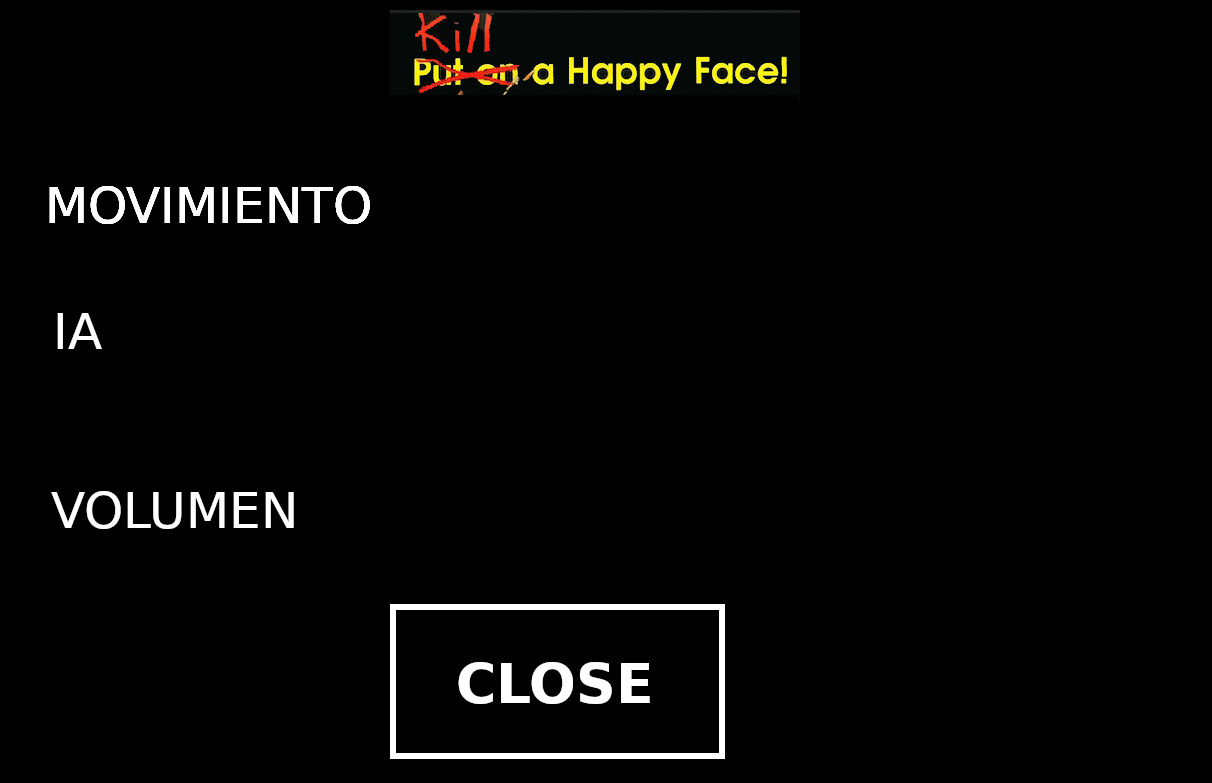
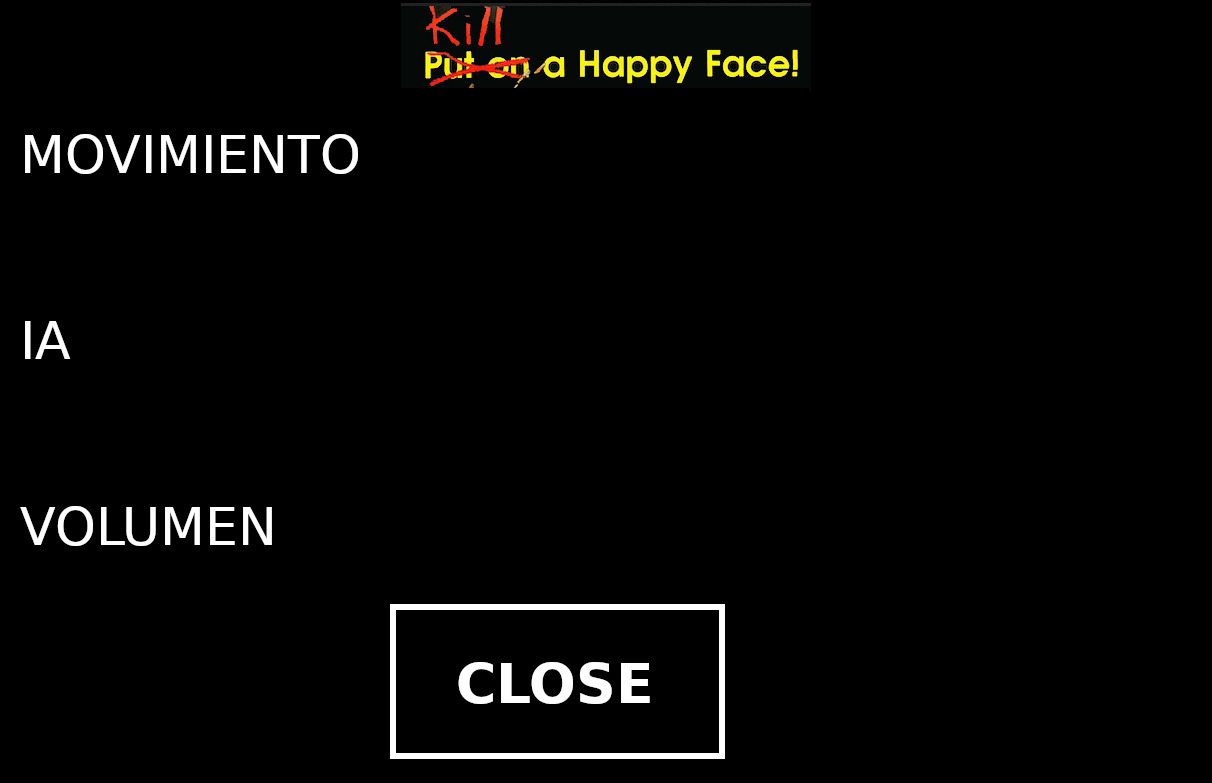
botón close

diff --git a/MidiMaze/screen.h b/MidiMaze/screen.h
@@ -1,19 +1,18 @@
 #pragma once
-#include <gameStarter.h>
-#include <settings.h>
-#include <mapSelector.h>
-#include <version.h>
-class confAvanzada {
-
+class Screen
+{
 public:
+    // model data 
+    float vertices[20];
+    glm::vec2 normal;
+    unsigned int indices[6];
+    unsigned int VBO, VAO, EBO;
+    unsigned int texture1;
 
-    bool shown;
     vector<glm::vec4> buttons;
-    Version movimiento, IA;
 
     // constructor, expects a filepath to a 3D model.
-    confAvanzada(glm::vec3 v1, glm::vec3 v2, float ySup, Shader& ourShader, glm::vec3 v1Real, glm::vec3 v2Real) {
-        shown = false;
+    Screen(glm::vec3 v1, glm::vec3 v2, Shader& ourShader, string texturePath) {
         vertices[0] = v1.x;
         vertices[1] = v1.y;
         vertices[2] = v1.z;
@@ -29,14 +28,14 @@ public:
         vertices[9] = 0.0f;
 
         vertices[10] = v1.x;
-        vertices[11] = ySup;
+        vertices[11] = v1.y + 6;
         vertices[12] = v1.z;
 
         vertices[13] = 0.0f;
         vertices[14] = 1.0f;
 
         vertices[15] = v2.x;
-        vertices[16] = ySup;
+        vertices[16] = v2.y + 6;
         vertices[17] = v2.z;
 
         vertices[18] = 1.0f;
@@ -49,80 +48,85 @@ public:
         indices[4] = 2;
         indices[5] = 3;
 
-        setUpWall(ourShader);
-        setUpButtons();
-        setUpVersions(v1Real, v2Real, ourShader);
+        setUpWall(ourShader, texturePath);
+
         if (v1.x != v2.x) normal = glm::vec2(0, 1);
         else normal = glm::vec2(1, 0);
     };
 
-    confAvanzada() {};
+    // constructor, expects a filepath to a 3D model.
+    Screen(glm::vec3 v1, glm::vec3 v2, Shader& ourShader, vector<glm::vec4> buttons, string texturePath) : buttons(buttons) {
+        vertices[0] = v1.x;
+        vertices[1] = v1.y;
+        vertices[2] = v1.z;
 
+        vertices[3] = 0.0f;
+        vertices[4] = 0.0f;
 
-    void buttonCalled() {
-        shown = !shown;
-    }
+        vertices[5] = v2.x;
+        vertices[6] = v2.y;
+        vertices[7] = v2.z;
 
-    bool getShown() {
-        return shown;
-    }
+        vertices[8] = 1.0f;
+        vertices[9] = 0.0f;
 
-    void checkButton(double xPos, double yPos, Shader& ourShader, GLFWwindow* window) {
-        for (int i = 0; i < buttons.size(); i++) {
-            if (xPos >= buttons[i].x && xPos <= buttons[i].y && yPos >= buttons[i].z && yPos <= buttons[i].w) {
-                SoundEngine->play2D("resources/effects/plik.mp3", false);
-                if (i == 0) {
-                    shown = false;
-                }
-            }
-        }
-        movimiento.checkButton(xPos, yPos, ourShader);
-        IA.checkButton(xPos, yPos, ourShader);
+        vertices[10] = v1.x;
+        vertices[11] = v1.y + 6;
+        vertices[12] = v1.z;
+
+        vertices[13] = 0.0f;
+        vertices[14] = 1.0f;
+
+        vertices[15] = v2.x;
+        vertices[16] = v2.y + 6;
+        vertices[17] = v2.z;
+
+        vertices[18] = 1.0f;
+        vertices[19] = 1.0f;
+
+        indices[0] = 0;
+        indices[1] = 1;
+        indices[2] = 2;
+        indices[3] = 1;
+        indices[4] = 2;
+        indices[5] = 3;
+
+        setUpWall(ourShader, texturePath);
+
+        if (v1.x != v2.x) normal = glm::vec2(0, 1);
+        else normal = glm::vec2(1, 0);
     };
 
-    void setUpVersions(glm::vec3 v1, glm::vec3 v2, Shader& ourShader) {
-        double totalx = v2.x - v1.x;
-        double totaly = 3 - v1.y;
-        movimiento = Version(glm::vec3(v1.x + 0.241f * totalx, v1.y + 0.605f * totaly, v1.z + 0.026f), glm::vec3(v1.x + 0.43f * totalx, v1.y + 0.605f * totaly, v1.z + 0.026f), static_cast<float>(v1.y + 0.67f * totaly), 0.395f, ourShader);
-        IA = Version(glm::vec3(v1.x + 0.241f * totalx, v1.y + 0.53f * totaly, v1.z + 0.0255f), glm::vec3(v1.x + 0.43f * totalx, v1.y + 0.53f * totaly, v1.z + 0.0255f), static_cast<float>(v1.y + 0.595f * totaly), 0.47f, ourShader);
-        //0.43
-    }
+    Screen() {};
 
-    bool getMovimientoOriginal() {
-        return movimiento.original;
-    }
 
-    bool getIAOriginal() {
-        return IA.original;
-    }
+
+
+    int checkButton(double xPos, double yPos) {
+        for (int i = 1; i < buttons.size()+1; i++) {
+            if (xPos >= buttons[i].x && xPos <= buttons[i].y && yPos >= buttons[i].z && yPos <= buttons[i].w) {
+                return i;
+            }
+        }
+        return -1;
+    };
+
 
     void draw(Shader& ourShader) {
-        if (shown) {
-            glActiveTexture(GL_TEXTURE0);
-            glBindTexture(GL_TEXTURE_2D, texture1);
 
-            glm::mat4 model = glm::mat4(1.0f);
-            model = glm::translate(model, glm::vec3(0, 0, 0)); // translate it so it's at the center of the scene
-            ourShader.setMat4("model", model);
-            glBindVertexArray(VAO);
-            glDrawElements(GL_TRIANGLES, 6, GL_UNSIGNED_INT, 0);
-            movimiento.draw(ourShader);
-            IA.draw(ourShader);
-        }
+        glActiveTexture(GL_TEXTURE0);
+        glBindTexture(GL_TEXTURE_2D, texture1);
+
+        glm::mat4 model = glm::mat4(1.0f);
+        model = glm::translate(model, glm::vec3(0, 0, 0)); // translate it so it's at the center of the scene
+        ourShader.setMat4("model", model);
+        glBindVertexArray(VAO);
+        glDrawElements(GL_TRIANGLES, 6, GL_UNSIGNED_INT, 0);
     };
 
 private:
-    // model data 
-    float vertices[20];
-    glm::vec2 normal;
-    unsigned int indices[6];
-    unsigned int VBO, VAO, EBO;
-    unsigned int texture1;
-    void setUpButtons() {
-        buttons.push_back(glm::vec4(0.21, 0.345, 0.605, 0.698));
-    }
 
-    void setUpWall(Shader& ourShader) {
+    void setUpWall(Shader& ourShader, string texturePath) {
         glGenVertexArrays(1, &VAO);
         glGenBuffers(1, &VBO);
         glGenBuffers(1, &EBO);
@@ -158,7 +162,7 @@ private:
         stbi_set_flip_vertically_on_load(true); // tell stb_image.h to flip loaded texture's on the y-axis.
         // The FileSystem::getPath(...) is part of the GitHub repository so we can find files on any IDE/platform; replace it with your own image path.
         unsigned char* data;
-        data = stbi_load("resources/Fotos_midi_maze/configAvanzada.jpg", &width, &height, &nrChannels, 0);
+        data = stbi_load(texturePath.c_str(), &width, &height, &nrChannels, 0);
         if (data)
         {
             glTexImage2D(GL_TEXTURE_2D, 0, GL_RGB, width, height, 0, GL_RGB, GL_UNSIGNED_BYTE, data);
@@ -174,4 +178,5 @@ private:
         glUniform1i(glGetUniformLocation(ourShader.ID, "texture1"), 0);
 
     }
+
 };
